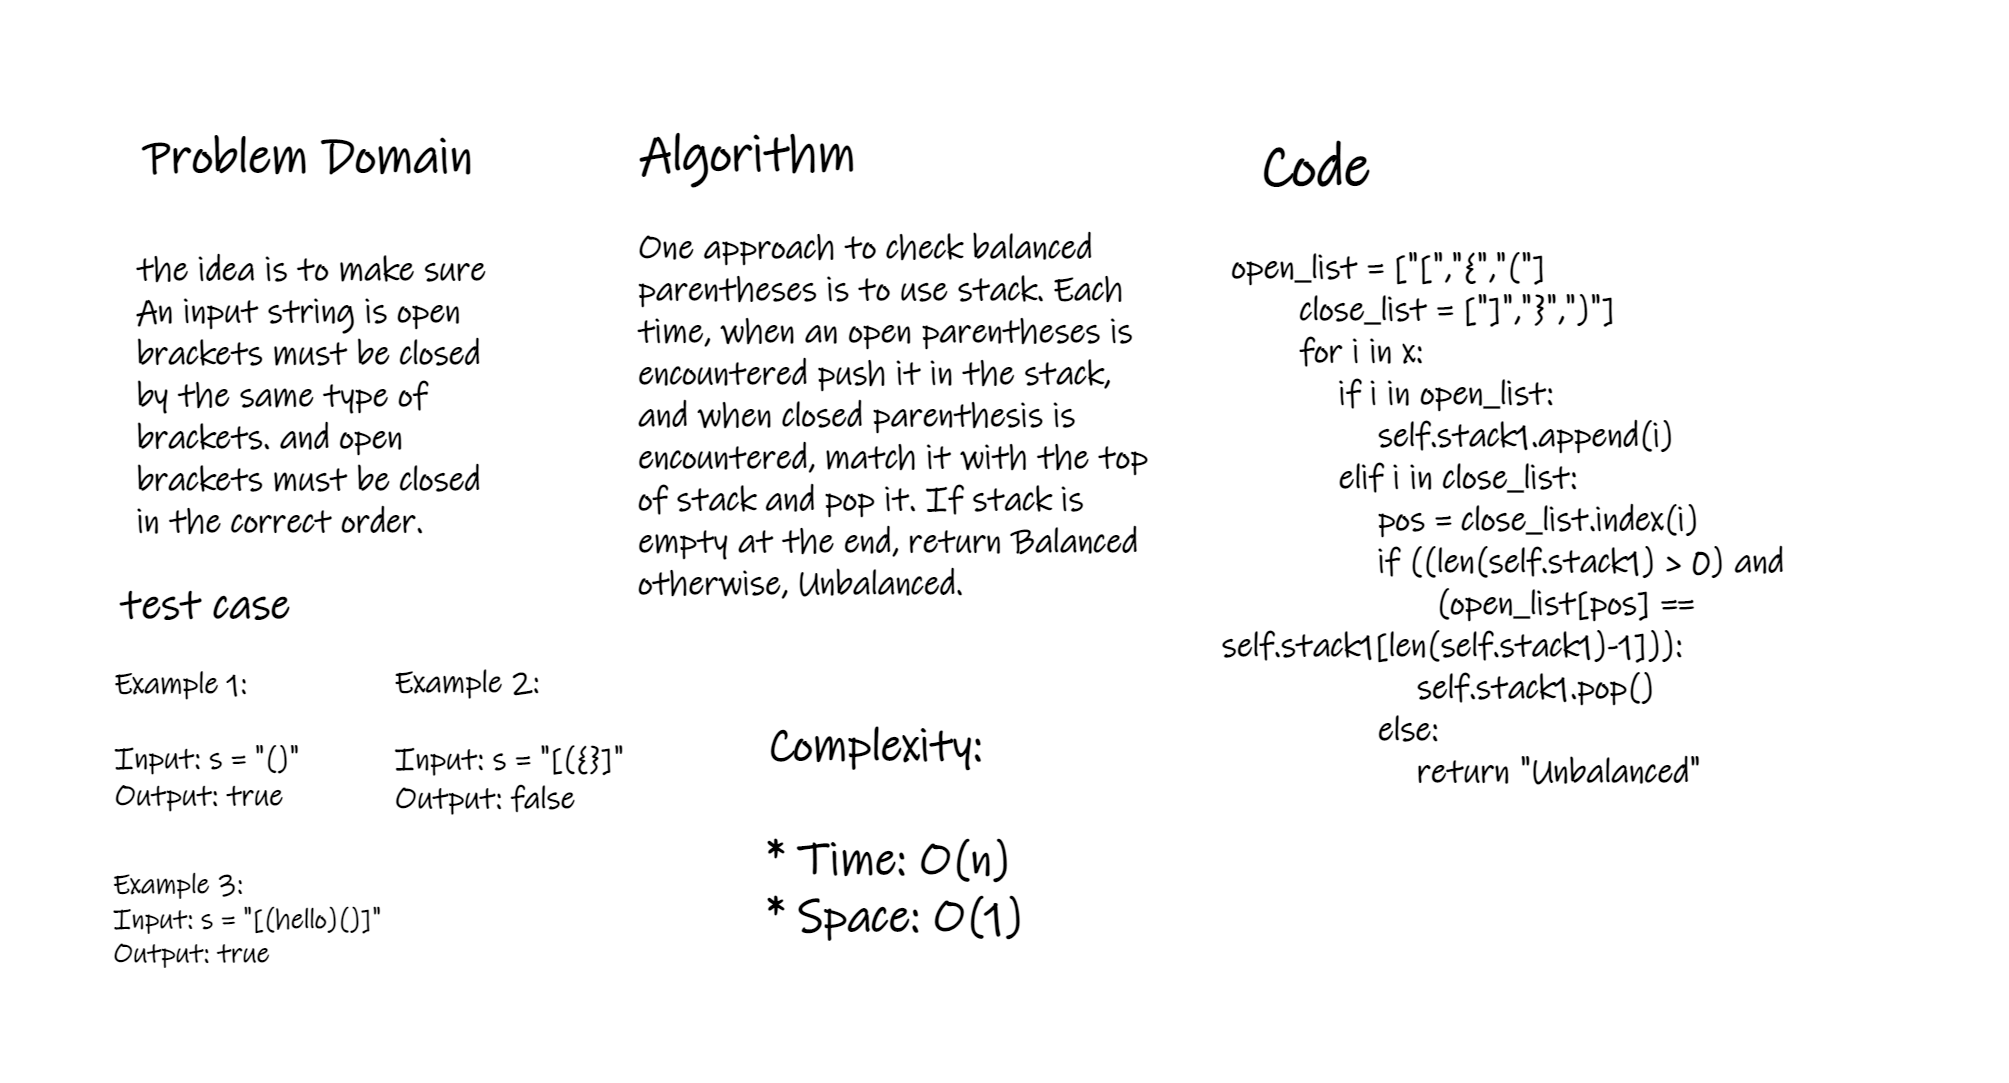
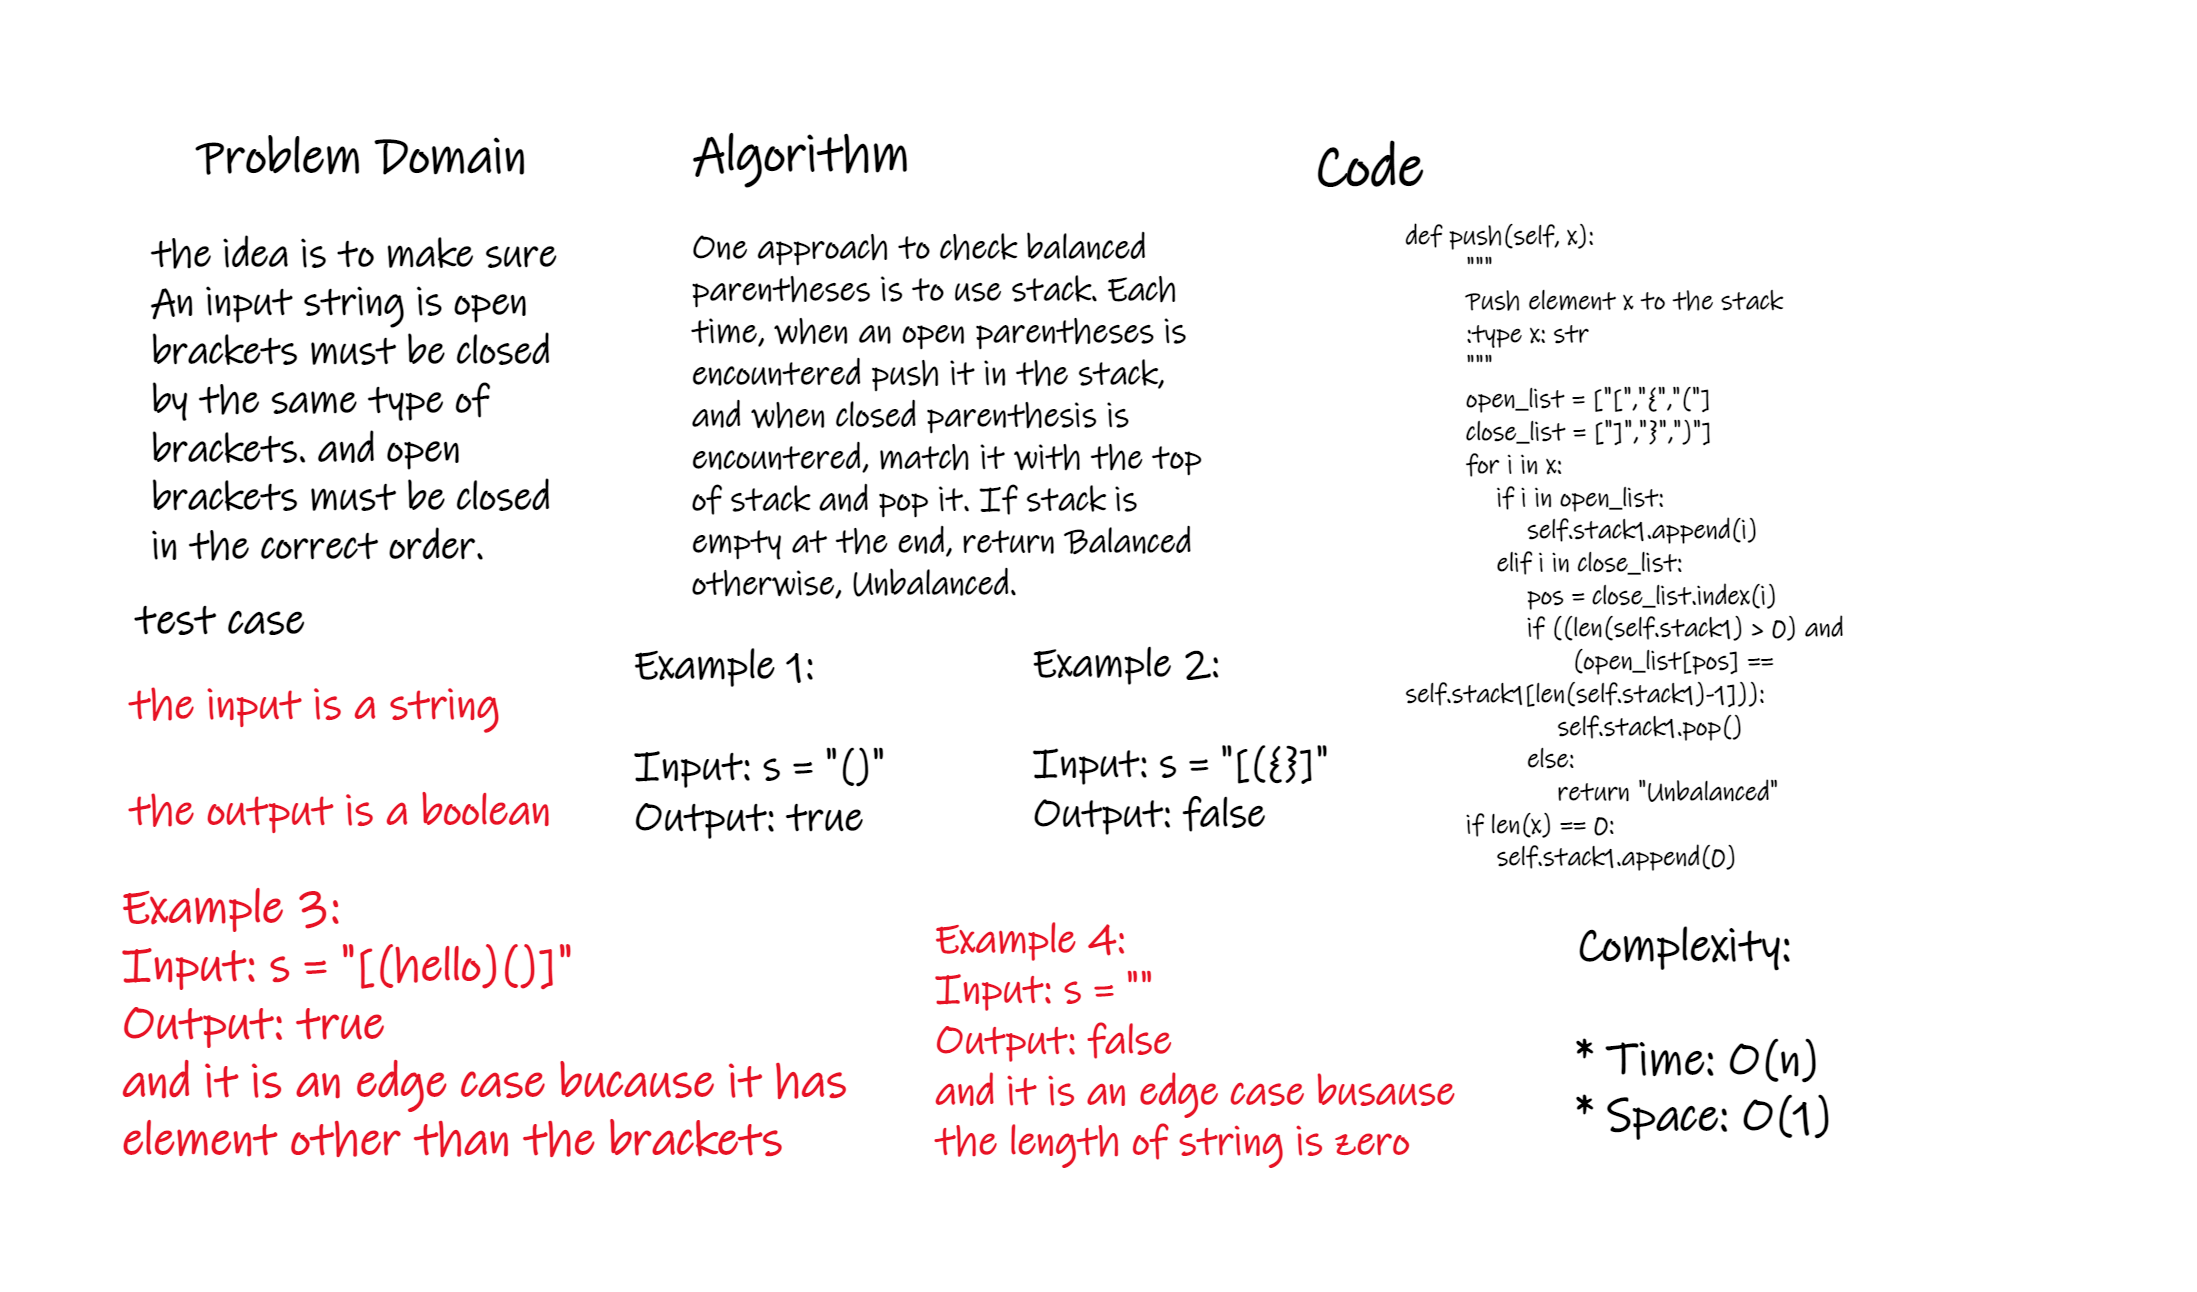
edit whitebored

diff --git a/python/code_challenges/stack_queue/challenge02/challenge02.py b/python/code_challenges/stack_queue/challenge02/challenge02.py
@@ -26,7 +26,8 @@ class MyQueue(object):
                     self.stack1.pop()
                 else:
                     return "Unbalanced"
-              
+        if len(x) == 0:
+            self.stack1.append(0)
     
     def output(self):
         """
@@ -52,3 +53,6 @@ stack2 = MyQueue()
 stack2.push("[(hi){}]")
 print(stack2.output())
 
+stack2 = MyQueue()
+stack2.push("")
+print(stack2.output())
